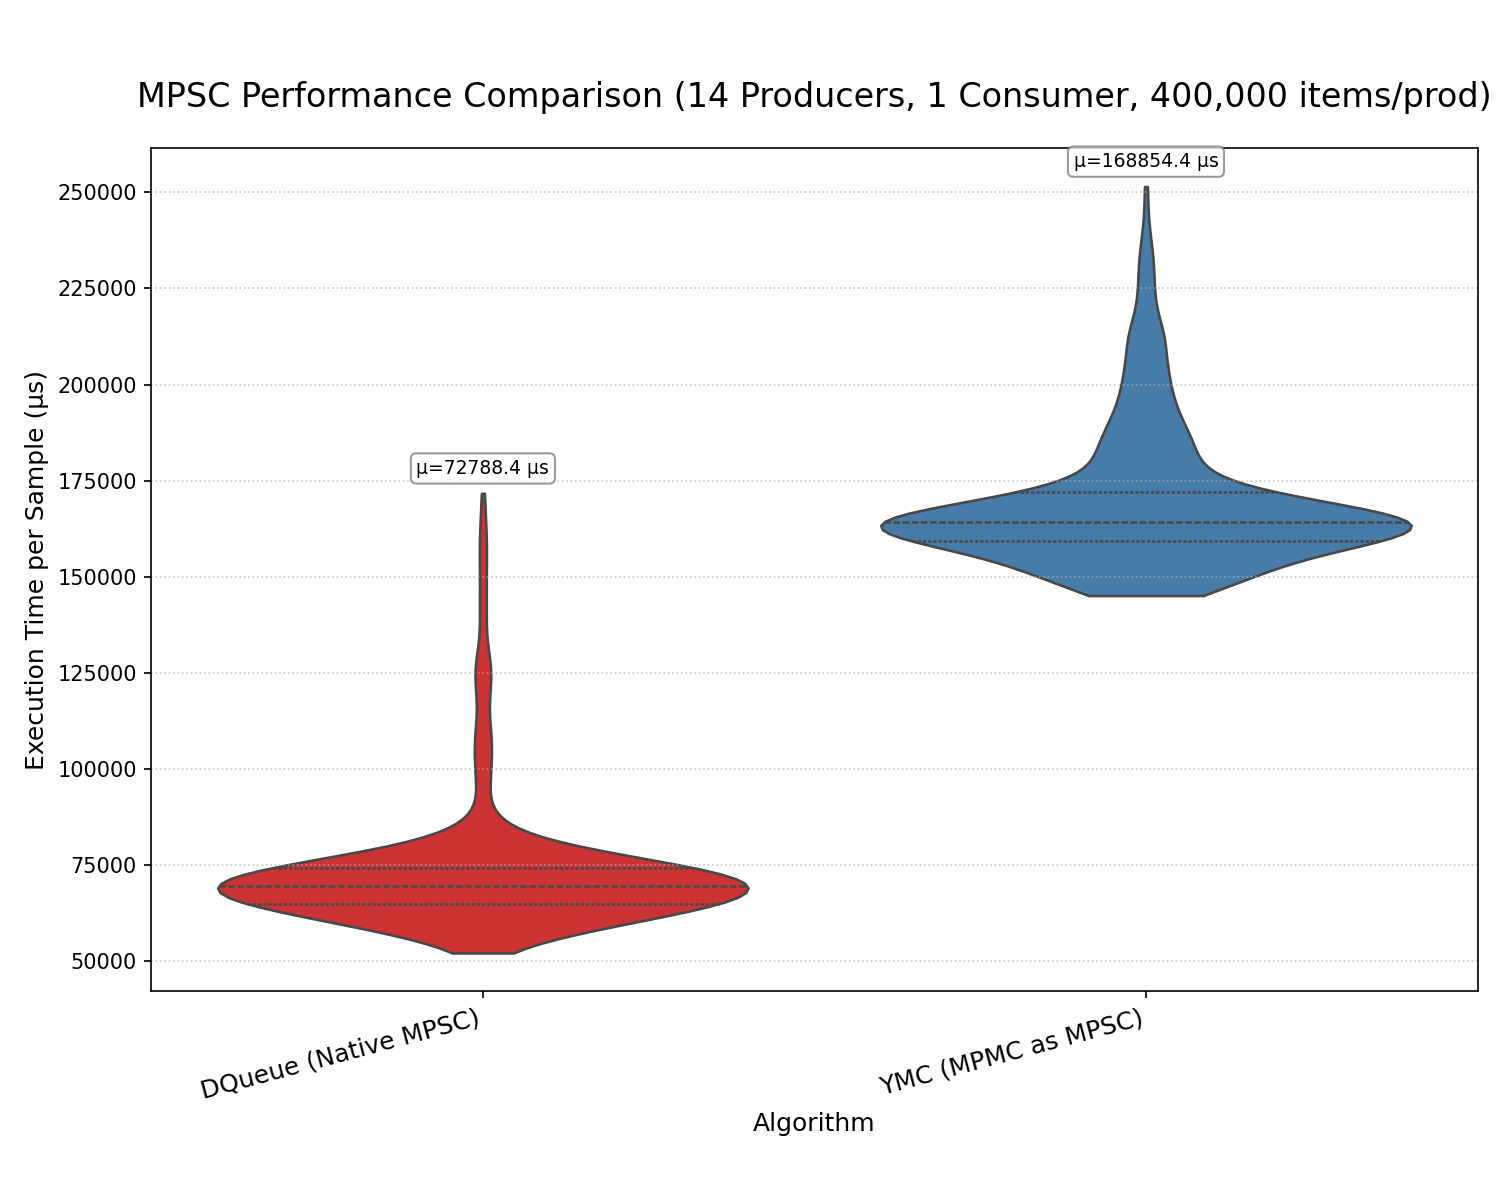
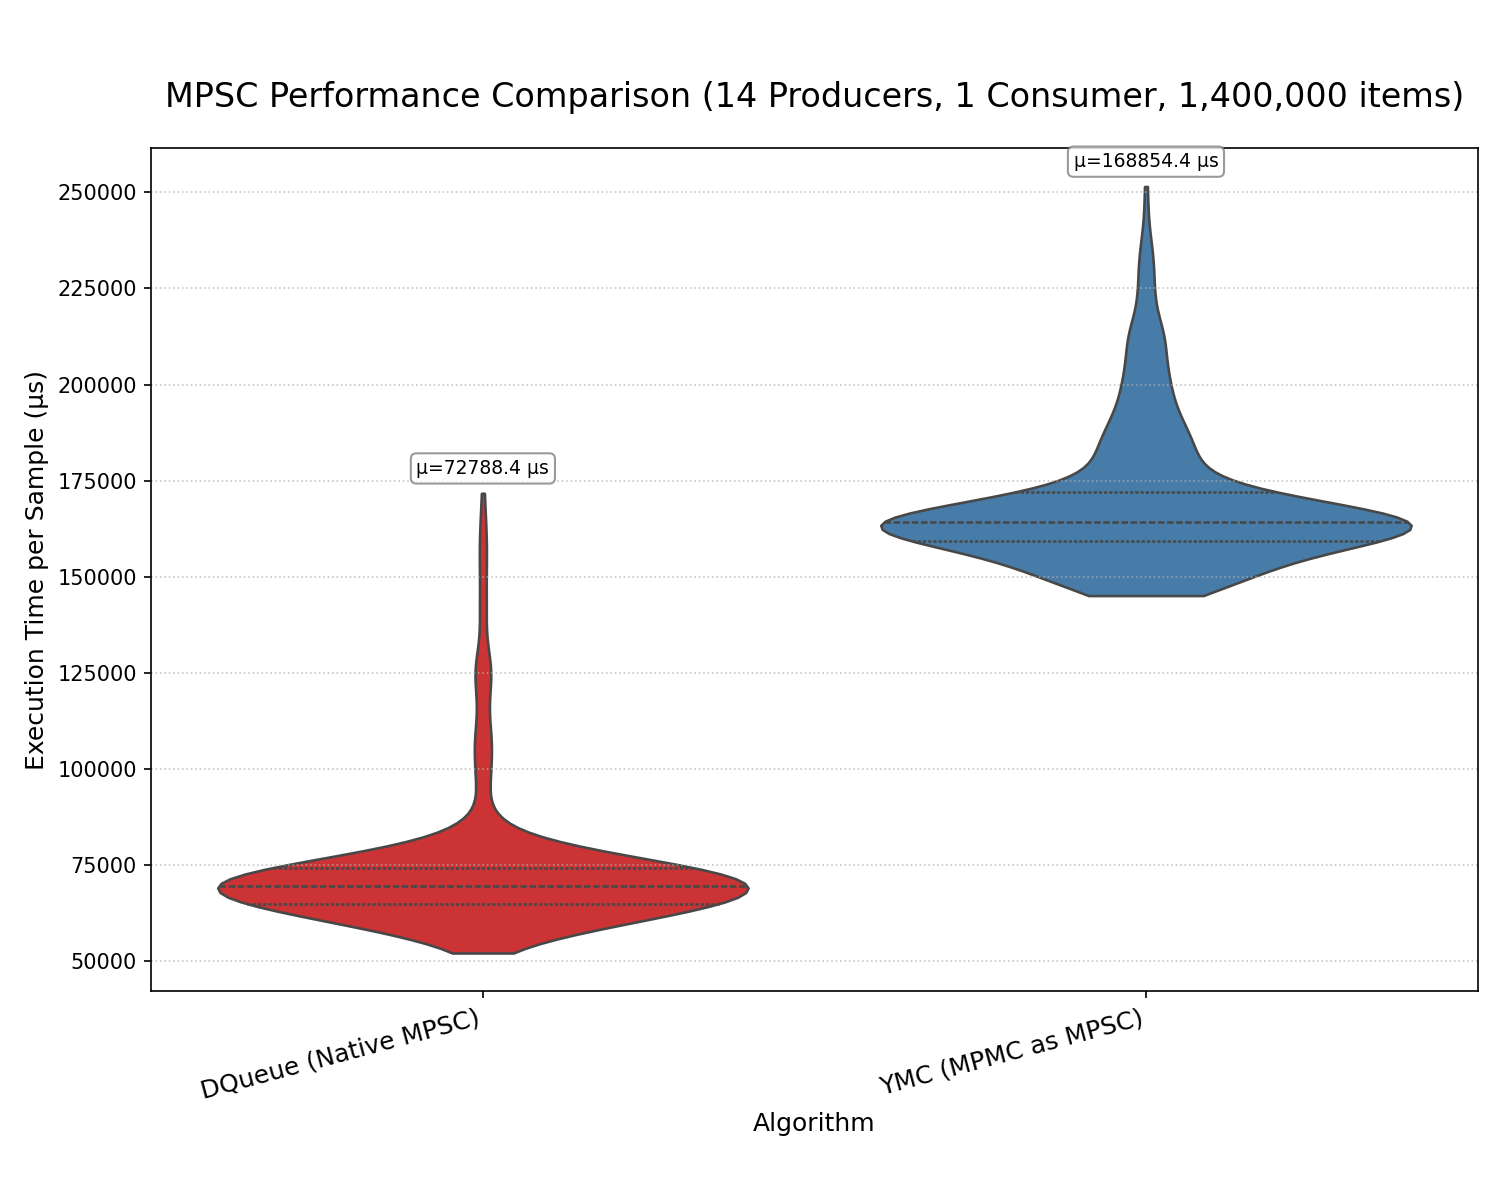
publish results

Changed region(s): [[0.092, 0.0617, 1.0, 0.0925]]

diff --git a/queues/best_in_spmc_plot.py b/queues/best_in_spmc_plot.py
@@ -11,7 +11,7 @@ SPMC_QUEUE_ALGORITHMS = ["David (Native SPMC)", "YMC (MPMC as SPMC)"]
 # Consumer counts to test
 CONSUMER_COUNTS = [1, 2, 4, 8, 14]
 # This should match ITEMS_PER_PRODUCER_TARGET from your best_in_spmc_bench.rs
-ITEMS_PER_PRODUCER = 5_000
+ITEMS_PER_PRODUCER = 100_000
 
 # Output file names and titles
 VIOLIN_PLOT_FILE_TEMPLATE = "best_in_spmc_performance_violin_1P{}C.png"
@@ -155,7 +155,7 @@ def main():
                 ),
             )
 
-        plot_title_violin = f'SPMC Performance Comparison (1 Producer, {num_consumers} Consumer{"s" if num_consumers > 1 else ""}, {ITEMS_PER_PRODUCER:,} items)'
+        plot_title_violin = f'SPMC Performance Comparison (1 Producer, {num_consumers} Consumer{"s" if num_consumers > 1 else ""}, {num_consumers * ITEMS_PER_PRODUCER:,} items)'
         plt.title(plot_title_violin, fontsize=16, pad=20)
         plt.xticks(rotation=15, ha="right", fontsize=12)
         plt.yticks(fontsize=10)
@@ -222,7 +222,7 @@ def main():
     plt.text(
         0.98,
         0.02,
-        f"1 Producer, {ITEMS_PER_PRODUCER:,} items",
+        f"For each consumer, {ITEMS_PER_PRODUCER:,} items produced",
         ha="right",
         va="bottom",
         transform=plt.gca().transAxes,

diff --git a/queues/best_in_mpsc_plot.py b/queues/best_in_mpsc_plot.py
@@ -11,7 +11,7 @@ MPSC_QUEUE_ALGORITHMS = ["DQueue (Native MPSC)", "YMC (MPMC as MPSC)"]
 # Producer counts to test
 PRODUCER_COUNTS = [1, 2, 4, 8, 14]
 # This should match ITEMS_PER_PRODUCER_TARGET from your best_in_mpsc_bench.rs
-ITEMS_PER_PRODUCER = 400_000
+ITEMS_PER_PRODUCER = 100_000
 
 # Output file names and titles
 VIOLIN_PLOT_FILE_TEMPLATE = "best_in_mpsc_performance_violin_{}P1C.png"
@@ -158,7 +158,7 @@ def main():
                 ),
             )
 
-        plot_title_violin = f'MPSC Performance Comparison ({num_producers} Producer{"s" if num_producers > 1 else ""}, 1 Consumer, {ITEMS_PER_PRODUCER:,} items/prod)'
+        plot_title_violin = f'MPSC Performance Comparison ({num_producers} Producer{"s" if num_producers > 1 else ""}, 1 Consumer, {num_producers * ITEMS_PER_PRODUCER:,} items)'
         plt.title(plot_title_violin, fontsize=16, pad=20)
         plt.xticks(rotation=15, ha="right", fontsize=12)
         plt.yticks(fontsize=10)
